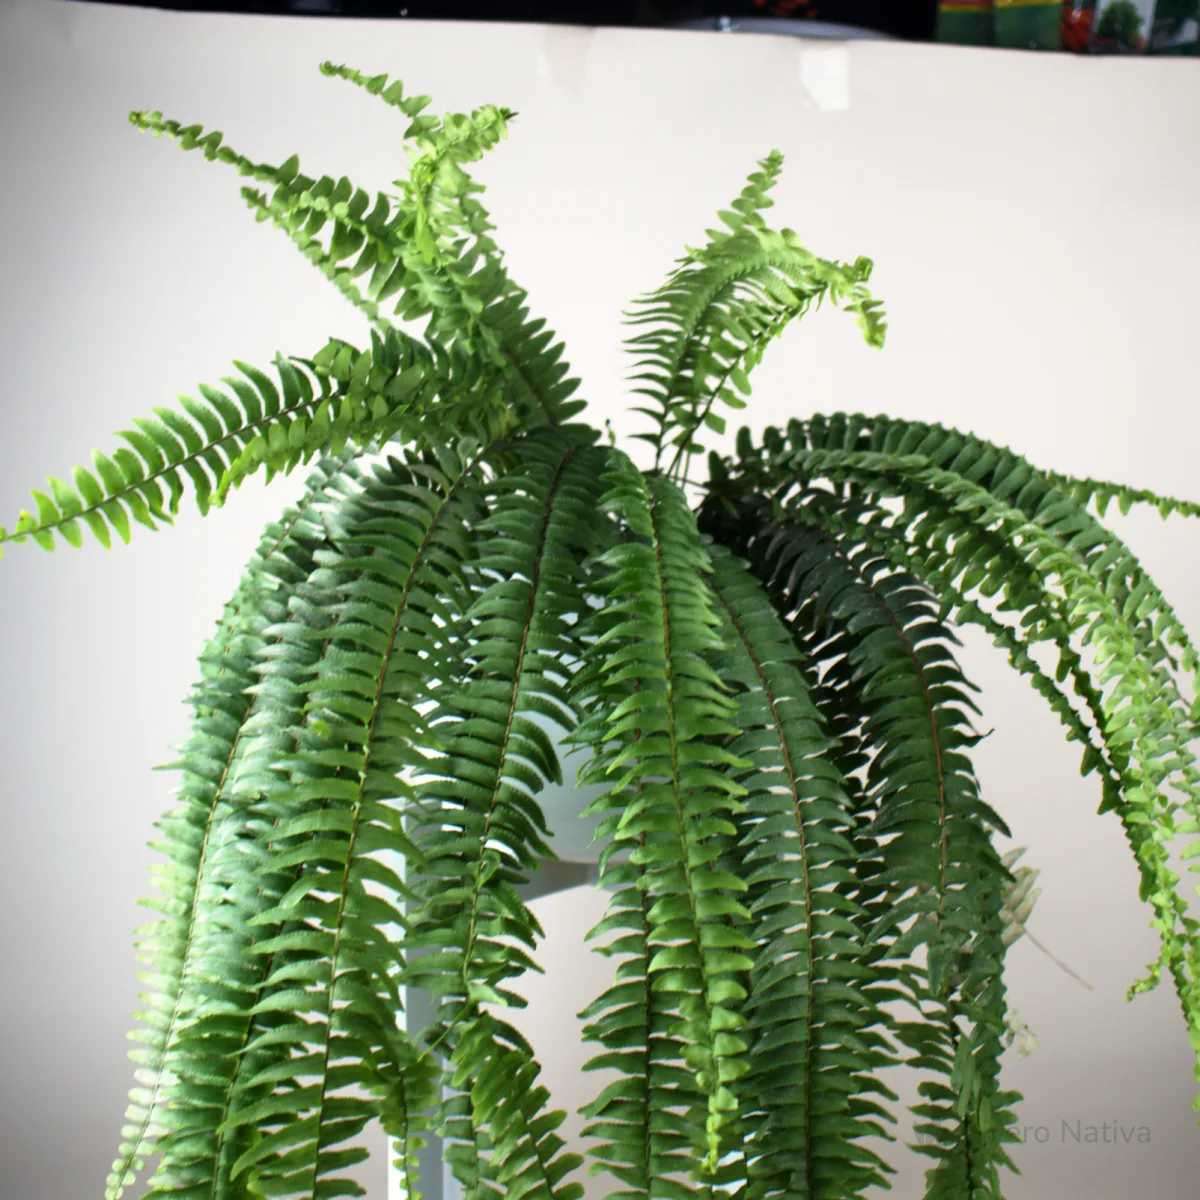
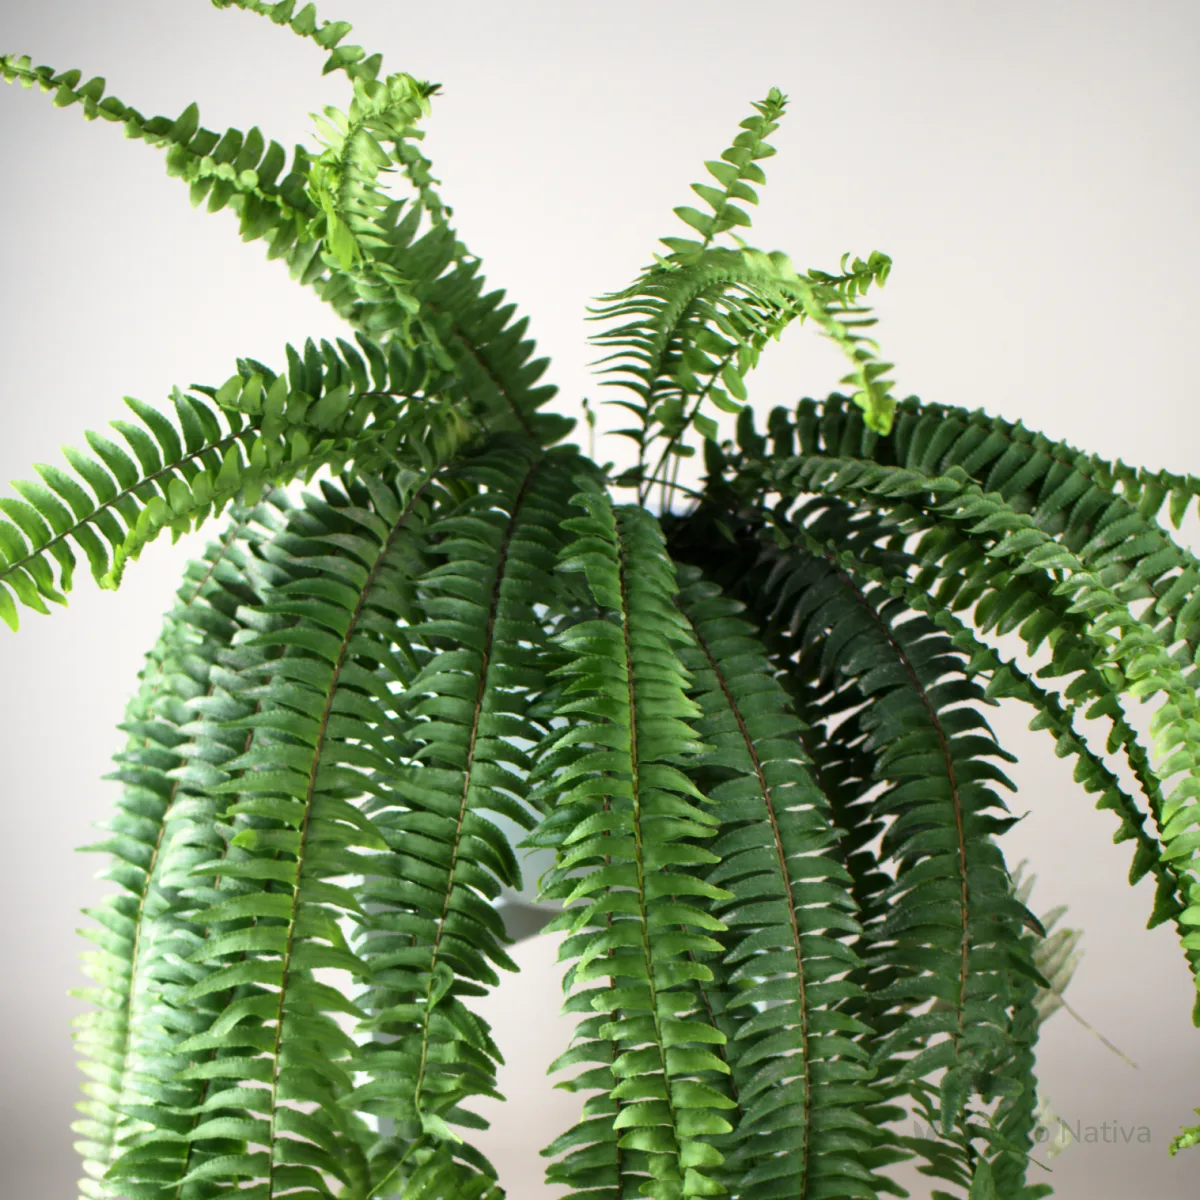
fix: nueva foto principal del Helecho Babilónico

diff --git a/vite.config.ts b/vite.config.ts
@@ -4,48 +4,36 @@ import { defineConfig, type Plugin } from "vite";
 import react from "@vitejs/plugin-react";
 import tailwindcss from "@tailwindcss/vite";
 import { catalogo } from "./src/lib/catalogo";
-import {
-  homeSeo,
-  productSeo,
-  renderFallback,
-  renderHead,
-  renderSitemap,
-  type PageSeo,
-} from "./src/lib/seo";
-import type { Plant } from "./src/types/plant";
+import { homeSeo, productSeo, renderHead, renderSitemap, type PageSeo } from "./src/lib/seo";
 
-function fillPage(html: string, seo: PageSeo, plant?: Plant): string {
-  return html
-    .replace(
-      /<!--seo:start-->[\s\S]*?<!--seo:end-->/,
-      `<!--seo:start-->${renderHead(seo)}<!--seo:end-->`,
-    )
-    .replace(
-      /<!--app:start-->[\s\S]*?<!--app:end-->/,
-      `<!--app:start-->${renderFallback(seo, plant)}<!--app:end-->`,
-    );
+// Escribe título, descripción, Open Graph y datos estructurados en el <head>.
+function fillHead(html: string, seo: PageSeo): string {
+  return html.replace(
+    /<!--seo:start-->[\s\S]*?<!--seo:end-->/,
+    `<!--seo:start-->${renderHead(seo)}<!--seo:end-->`,
+  );
 }
 
-// SEO al compilar:
-// - Portada: título, descripción, Open Graph y datos estructurados en index.html.
-// - Una página HTML por planta (dist/producto/<slug>.html) con sus propios datos,
-//   para que Google vea cada planta aunque no ejecute JavaScript.
+// SEO al compilar (`npm run build`):
+// - Portada: datos SEO en index.html.
+// - Una página HTML por planta (dist/producto/<slug>.html) con sus propios datos SEO.
 // - sitemap.xml con todas las páginas.
+// Después, scripts/prerender.mjs pone dentro de cada página el diseño completo.
 function seoPlugin(): Plugin {
   let outDir = "dist";
-  let isBuild = false;
+  let isClientBuild = false;
 
   return {
     name: "vivero-seo",
     configResolved(config) {
       outDir = join(config.root, config.build.outDir);
-      isBuild = config.command === "build";
+      isClientBuild = config.command === "build" && !config.build.ssr;
     },
     transformIndexHtml(html) {
-      return fillPage(html, homeSeo());
+      return fillHead(html, homeSeo());
     },
     closeBundle() {
-      if (!isBuild) return;
+      if (!isClientBuild) return;
 
       const template = readFileSync(join(outDir, "index.html"), "utf8");
       mkdirSync(join(outDir, "producto"), { recursive: true });
@@ -53,7 +41,7 @@ function seoPlugin(): Plugin {
       for (const plant of catalogo) {
         writeFileSync(
           join(outDir, "producto", `${plant.slug}.html`),
-          fillPage(template, productSeo(plant), plant),
+          fillHead(template, productSeo(plant)),
         );
       }
 

diff --git a/src/lib/seo.ts b/src/lib/seo.ts
@@ -216,37 +216,8 @@ export function renderHead(seo: PageSeo): string {
   return lines.filter(Boolean).join("\n    ");
 }
 
-// Contenido en HTML puro dentro de <div id="root">, para buscadores que no
-// ejecutan JavaScript. React lo reemplaza en cuanto carga la página.
-export function renderFallback(seo: PageSeo, plant?: Plant): string {
-  const box = 'style="max-width:72rem;margin:0 auto;padding:2.5rem 1rem;line-height:1.6"';
-
-  if (plant) {
-    return `<main ${box}>
-      <h1>${escapeHtml(plant.name)}</h1>
-      <img src="${plant.images[0]}" alt="${escapeHtml(plant.name)}" width="1200" height="1200" style="max-width:320px;height:auto" />
-      <p>${escapeHtml(plant.description)}</p>
-      <p><strong>Iluminación:</strong> ${escapeHtml(plant.light)}</p>
-      <p><strong>Riego:</strong> ${escapeHtml(plant.watering)}</p>
-      <p>Envío a todo el Perú.</p>
-      <p><a href="/">Ver todas las plantas de Vivero Nativa</a></p>
-    </main>`;
-  }
-
-  const links = catalogo
-    .map((p) => `<li><a href="/producto/${p.slug}">${escapeHtml(p.name)}</a></li>`)
-    .join("");
-
-  return `<main ${box}>
-      <h1>Descubre nuestra colección de plantas</h1>
-      <p>${escapeHtml(seo.description)}</p>
-      <h2>Nuestras plantas</h2>
-      <ul>${links}</ul>
-    </main>`;
-}
-
 // Mapa del sitio. Las plantas nuevas se añaden solas: basta con agregarlas a
-// src/data/catalogo.ts y poner sus fotos en public/Web. Para una página nueva
+// src/data/plantas.ts y poner sus fotos en public/Web. Para una página nueva
 // (por ejemplo /nosotros), añádela a la lista `pages` de esta función.
 export function renderSitemap(lastmod: string): string {
   const pages = [

diff --git a/src/main.tsx b/src/main.tsx
@@ -1,14 +1,28 @@
-
 import { StrictMode } from "react";
-import { createRoot } from "react-dom/client";
+import { createRoot, hydrateRoot } from "react-dom/client";
 import { BrowserRouter } from "react-router-dom";
 import "./index.css";
 import App from "./App";
 
-createRoot(document.getElementById("root")!).render(
+const container = document.getElementById("root")!;
+
+const app = (
   <StrictMode>
     <BrowserRouter>
       <App />
     </BrowserRouter>
-  </StrictMode>,
+  </StrictMode>
 );
+
+// Si el HTML ya trae el diseño de esta página (generado al compilar), React solo
+// lo "activa" sin volver a dibujarlo: la página se ve completa desde el primer momento.
+// Si no coincide (p. ej. una dirección inexistente o una búsqueda ?q=), se dibuja de cero.
+const prerenderedPath = container.dataset.ssr;
+const canHydrate = prerenderedPath === window.location.pathname && !window.location.search;
+
+if (canHydrate) {
+  hydrateRoot(container, app);
+} else {
+  container.textContent = "";
+  createRoot(container).render(app);
+}

diff --git a/src/entry-server.tsx b/src/entry-server.tsx
@@ -1,0 +1,22 @@
+// Render de la web en el servidor, solo al compilar (lo usa scripts/prerender.mjs).
+// Genera el HTML con el diseño completo de cada página para que se vea al instante,
+// sin esperar a que cargue JavaScript, y para que Google lea la página real.
+
+import { StrictMode } from "react";
+import { renderToString } from "react-dom/server";
+import { StaticRouter } from "react-router-dom";
+import App from "./App";
+import { catalogo } from "./lib/catalogo";
+
+export function render(url: string): string {
+  return renderToString(
+    <StrictMode>
+      <StaticRouter location={url}>
+        <App />
+      </StaticRouter>
+    </StrictMode>,
+  );
+}
+
+// Direcciones que se generan como HTML: la portada y una por planta.
+export const routes: string[] = ["/", ...catalogo.map((plant) => `/producto/${plant.slug}`)];

diff --git a/index.html b/index.html
@@ -8,7 +8,6 @@
     <link rel="icon" type="image/png" sizes="48x48" href="/marca/icono-48.png" />
     <link rel="icon" type="image/png" sizes="192x192" href="/marca/icono-192.png" />
     <link rel="apple-touch-icon" href="/marca/apple-touch-icon.png" />
-    <link rel="preload" as="image" href="/imagenes/portada.webp" fetchpriority="high" />
     <link rel="preconnect" href="https://fonts.googleapis.com" />
     <link rel="preconnect" href="https://fonts.gstatic.com" crossorigin />
     <link

diff --git a/src/components/layout/Footer.tsx b/src/components/layout/Footer.tsx
@@ -86,7 +86,8 @@ function Footer() {
       </div>
 
       <div className="mx-auto flex max-w-7xl flex-col gap-2 border-t border-crema/15 py-6 text-[13px] text-crema/60 sm:flex-row sm:justify-between">
-        <p>
+        {/* El año se calcula también al compilar: si cambió desde entonces, no es un error. */}
+        <p suppressHydrationWarning>
           © {currentYear} {vivero.nombre}. Todos los derechos reservados.
         </p>
         <p>

diff --git a/README.md b/README.md
@@ -90,6 +90,7 @@ recursos/               Originales (no se publican): logos en alta, foto de port
 
 scripts/
   generar-fotos.mjs     Lee public/Web y crea src/data/fotos.ts (se ejecuta solo)
+  prerender.mjs         Al compilar, pone el diseño completo en el HTML de cada página
 
 src/
   config/vivero.ts      ★ Datos del vivero: contacto, horario, textos, redes
@@ -111,9 +112,11 @@ src/
   hooks/usePageSeo.ts   Actualiza título y descripción al navegar
   types/plant.ts        Tipos de datos
   App.tsx               Rutas de la web
+  main.tsx              Arranque en el navegador (activa el HTML ya generado)
+  entry-server.tsx      Arranque al compilar (genera el HTML de cada página)
   index.css             Colores y fuentes de la marca
 
-vite.config.ts          Al compilar: crea una página HTML por planta y el sitemap.xml
+vite.config.ts          Al compilar: crea una página HTML por planta (con su SEO) y el sitemap.xml
 vercel.json             Configuración de Vercel (direcciones limpias)
 ```
 
@@ -121,7 +124,10 @@ vercel.json             Configuración de Vercel (direcciones limpias)
 
 ---
 
-## SEO (Google)
+## SEO (Google) y velocidad
+
+- Al compilar, cada página se genera con su diseño completo en el HTML (prerender):
+  se ve al instante, sin esperar a JavaScript, y Google lee la página real.
 
 - Cada planta tiene su propia página `https://www.viveronativa.com/producto/<slug>` con
   título, descripción, foto y datos estructurados (Product + BreadcrumbList).
